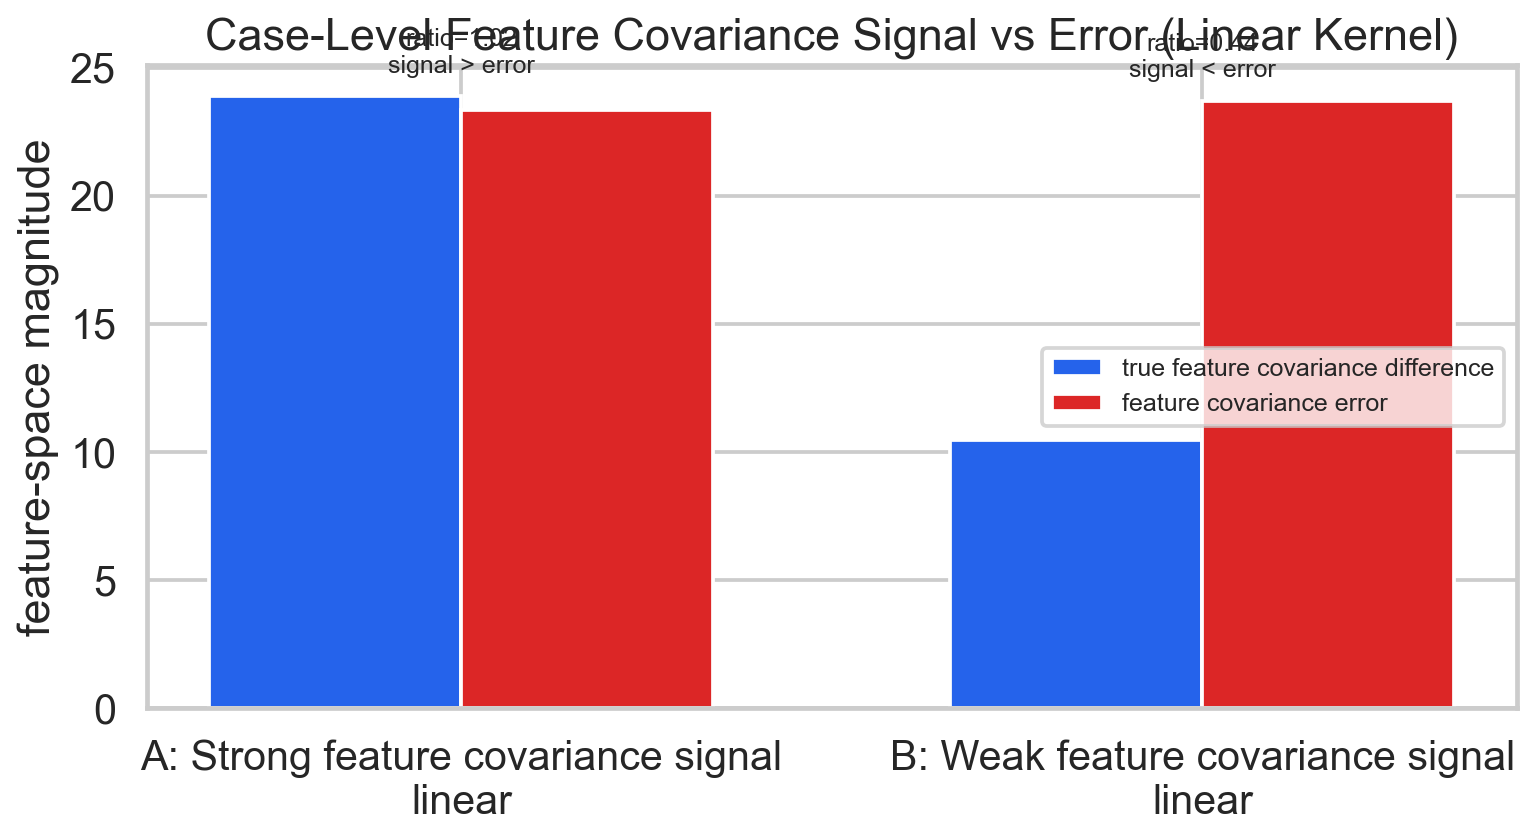
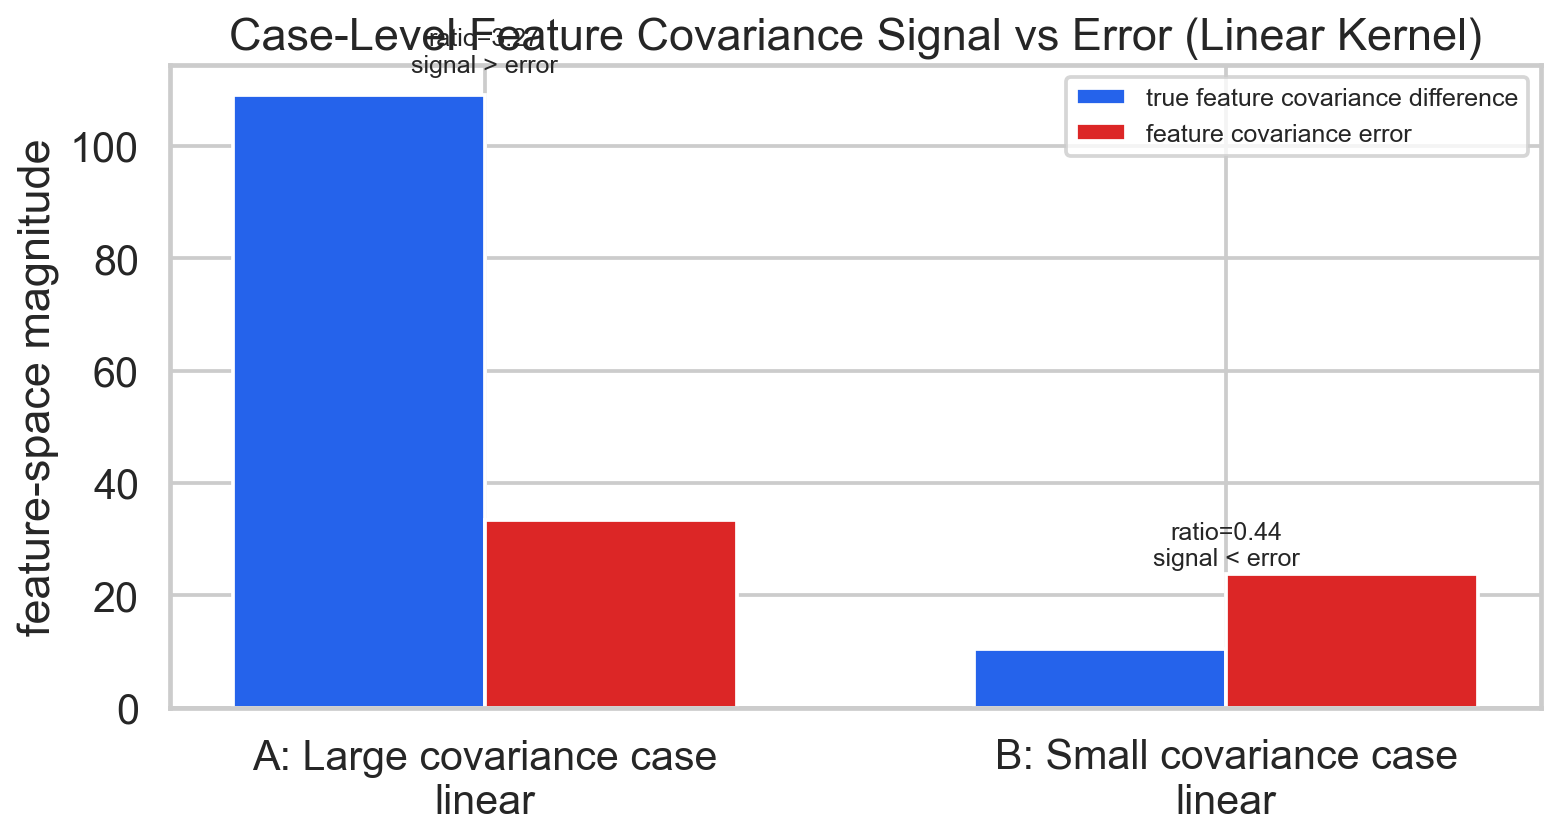
Strengthen large covariance linear example

diff --git a/simulations/kernel_space_signal_noise_workspace/kernel_space_signal_noise_demo.py b/simulations/kernel_space_signal_noise_workspace/kernel_space_signal_noise_demo.py
@@ -6,11 +6,11 @@ Feature-space signal-vs-noise demo.
 This workspace intentionally fixes the stage-1 kernel to linear and then studies
 two high-dimensional regimes:
 
-1. Strong feature-space covariance signal:
+1. Large covariance case:
    same mean / different covariance, with the true covariance difference larger
    than its estimation error.
 
-2. Weak feature-space covariance signal:
+2. Small covariance case:
    mean gap / small covariance gap, with the true covariance difference smaller
    than its estimation error.
 
@@ -52,10 +52,10 @@ def build_terminal_summary(df_strong_acc: pd.DataFrame, df_weak_acc: pd.DataFram
     strong_ratio = float(df_signal_noise[df_signal_noise["case"] == "strong_feature_covariance_signal"]["signal_to_noise_ratio"].iloc[0])
     weak_ratio = float(df_signal_noise[df_signal_noise["case"] == "weak_feature_covariance_signal"]["signal_to_noise_ratio"].iloc[0])
     return (
-        "Summary (linear stage-1 kernel only): in the strong case, the true feature covariance difference is larger than "
+        "Summary (linear stage-1 kernel only): in the large covariance case, the true feature covariance difference is larger than "
         f"its estimation error (ratio {strong_ratio:.3f}), and KDMLP improves over KFDA "
         f"({strong_best['mean']:.3f} vs {strong_kfda['mean']:.3f}). "
-        "In the weak case, the true feature covariance difference is smaller than its estimation error "
+        "In the small covariance case, the true feature covariance difference is smaller than its estimation error "
         f"(ratio {weak_ratio:.3f}), so the covariance part is below the noise floor; "
         f"the best KDMLP run reaches {weak_best['mean']:.3f} versus {weak_kfda['mean']:.3f} for KFDA, "
         "which should be read as a joint mean/covariance effect rather than as a pure covariance win."
@@ -66,10 +66,10 @@ def build_regimes(dimension: int = 220, seed: int = 20260327):
     rng = np.random.default_rng(seed)
     p = int(dimension)
 
-    sigma_strong_0 = base.random_dense_spd(rng, p, eig_low=0.6, eig_high=2.2)
+    sigma_strong_0 = base.random_dense_spd(rng, p, eig_low=0.5, eig_high=5.5)
     sigma_weak_0 = base.random_dense_spd(rng, p, eig_low=0.6, eig_high=2.1)
 
-    strong_T = base.dense_congruence_transform(rng, p, strength=0.95)
+    strong_T = base.dense_congruence_transform(rng, p, strength=4.5)
     weak_T = base.dense_congruence_transform(rng, p, strength=0.12)
 
     sigma_strong_1 = base.matched_trace_congruence(sigma_strong_0, strong_T)
@@ -78,21 +78,21 @@ def build_regimes(dimension: int = 220, seed: int = 20260327):
     v = base.random_unit_vector(rng, p)
 
     strong = base.Regime(
-        name=f"strong{p}",
-        title=f"Strong Case: d={p}, Same Mean, Different Covariances",
+        name=f"largecov{p}",
+        title=f"Large Covariance Case: d={p}, Same Mean, Different Covariances",
         p=p,
-        n_train_per_class=660,
+        n_train_per_class=1200,
         n_test_per_class=2500,
         n_ref_per_class=3000,
         mean0=np.zeros(p),
         mean1=np.zeros(p),
         Sigma0=sigma_strong_0,
         Sigma1=sigma_strong_1,
-        note="High-dimensional covariance difference with matched trace; no mean difference.",
+        note="High-dimensional large-covariance regime with matched trace; no mean difference.",
     )
     weak = base.Regime(
-        name=f"weak{p}",
-        title=f"Weak Case: d={p}, Mean Gap Plus Small Covariance Gap",
+        name=f"smallcov{p}",
+        title=f"Small Covariance Case: d={p}, Mean Gap Plus Small Covariance Gap",
         p=p,
         n_train_per_class=660,
         n_test_per_class=2500,
@@ -233,8 +233,8 @@ def collapse_by_kernel(df_cov_summary: pd.DataFrame) -> pd.DataFrame:
 def build_case_signal_summary(df_signal_noise: pd.DataFrame) -> pd.DataFrame:
     rows = []
     case_map = {
-        "strong_feature_covariance_signal": ("A", "Strong feature covariance signal"),
-        "weak_feature_covariance_signal": ("B", "Weak feature covariance signal"),
+        "strong_feature_covariance_signal": ("A", "Large covariance case"),
+        "weak_feature_covariance_signal": ("B", "Small covariance case"),
     }
     for case, (label, title) in case_map.items():
         sub = df_signal_noise[df_signal_noise["case"] == case].copy()
@@ -268,7 +268,7 @@ def plot_accuracy_curves(strong_acc: pd.DataFrame, weak_acc: pd.DataFrame):
         cur = sub[sub["variant"] == variant].sort_values("r")
         ax.plot(cur["r"], cur["mean"], marker="o", linewidth=2.2, color=colors[variant], label=base.variant_display(variant))
         ax.fill_between(cur["r"], cur["mean"] - cur["std"], cur["mean"] + cur["std"], alpha=0.18, color=colors[variant])
-    ax.set_title("Strong Case\nLinear stage-1 kernel")
+    ax.set_title("A: Large covariance case\nLinear stage-1 kernel")
     ax.set_xlabel("projection dimension r")
     ax.set_ylabel("test accuracy")
     ax.set_xticks(list(R_VALUES))
@@ -283,7 +283,7 @@ def plot_accuracy_curves(strong_acc: pd.DataFrame, weak_acc: pd.DataFrame):
         cur = sub[sub["variant"] == variant].sort_values("r")
         ax.plot(cur["r"], cur["mean"], marker="o", linewidth=2.2, color=colors[variant], label=base.variant_display(variant))
         ax.fill_between(cur["r"], cur["mean"] - cur["std"], cur["mean"] + cur["std"], alpha=0.18, color=colors[variant])
-    ax.set_title("Weak Case\nLinear stage-1 kernel")
+    ax.set_title("B: Small covariance case\nLinear stage-1 kernel")
     ax.set_xlabel("projection dimension r")
     ax.set_xticks(list(R_VALUES))
     ax.legend(frameon=True, fontsize=9)
@@ -317,8 +317,8 @@ def plot_signal_vs_noise(strong_cov: pd.DataFrame, weak_cov: pd.DataFrame):
                     tick.set_color("#7c3aed")
                     tick.set_fontweight("bold")
 
-    one_panel(axes[0], strong_cov, "Strong case (linear kernel)\ntrue covariance difference > error", highlight_kernel=LINEAR_KERNEL)
-    one_panel(axes[1], weak_cov, "Weak case (linear kernel)\ntrue covariance difference < error", highlight_kernel=LINEAR_KERNEL)
+    one_panel(axes[0], strong_cov, "A: Large covariance case (linear kernel)\ntrue covariance difference > error", highlight_kernel=LINEAR_KERNEL)
+    one_panel(axes[1], weak_cov, "B: Small covariance case (linear kernel)\ntrue covariance difference < error", highlight_kernel=LINEAR_KERNEL)
 
     fig.tight_layout()
     out = OUT_DIR / "feature_space_signal_vs_noise.png"
@@ -393,7 +393,7 @@ def plot_projection_views(strong_payload: dict, strong_acc: pd.DataFrame, weak_p
         for cls, color, label in [(0, "#1f77b4", "class 0"), (1, "#d62728", "class 1")]:
             idx = y == cls
             ax.scatter(Z2[idx, 0], Z2[idx, 1], s=10, alpha=0.55, c=color, label=label)
-        ax.set_title(f"Strong case, linear kernel\n{base.variant_display(variant)}, r={r}\nacc={acc_val:.3f}")
+        ax.set_title(f"Large covariance case, linear kernel\n{base.variant_display(variant)}, r={r}\nacc={acc_val:.3f}")
         ax.set_xlabel("2D view 1")
         ax.set_ylabel("2D view 2")
     axes[0, 0].legend(frameon=True, fontsize=9)
@@ -413,7 +413,7 @@ def plot_projection_views(strong_payload: dict, strong_acc: pd.DataFrame, weak_p
         for cls, color, label in [(0, "#1f77b4", "class 0"), (1, "#d62728", "class 1")]:
             idx = y == cls
             ax.scatter(Z2[idx, 0], Z2[idx, 1], s=10, alpha=0.55, c=color, label=label)
-        ax.set_title(f"Weak case, linear kernel\n{base.variant_display(variant)}, r={r}\nacc={acc_val:.3f}")
+        ax.set_title(f"Small covariance case, linear kernel\n{base.variant_display(variant)}, r={r}\nacc={acc_val:.3f}")
         ax.set_xlabel("2D view 1")
         ax.set_ylabel("2D view 2")
 

diff --git a/simulations/kernel_space_signal_noise_workspace/README.md b/simulations/kernel_space_signal_noise_workspace/README.md
@@ -2,8 +2,8 @@
 
 This folder isolates two different covariance-signal situations using one fixed linear stage-1 kernel. The default run is at dimension `220`, and a higher-dimensional supplementary run is provided at `d=500` with `repeats=3`.
 
-- a strong feature-space covariance-signal case where KDMLP can beat KFDA
-- a weak feature-space covariance-signal case where covariance estimation noise is larger than the true gap
+- a large covariance case where KDMLP can beat KFDA
+- a small covariance case where covariance estimation noise is larger than the true gap
 
 ## Main script
 
@@ -33,11 +33,11 @@ python kernel_space_signal_noise_demo.py --dimension 500 --repeats 3 --output-su
 - `outputs/projection_views.png`
 - `outputs_d500_r3/`
 
-The figures below use the default `d=220` run in `outputs/`, and they now show only the linear stage-1 kernel. This gives one direct comparison where the strong case has true linear feature covariance signal above estimation error and the weak case has signal below error. The `d=500` run remains available in `outputs_d500_r3/` as a supplementary check.
+The figures below use the default `d=220` run in `outputs/`, and they now show only the linear stage-1 kernel. This gives one direct comparison where the large covariance case has true linear feature covariance signal far above estimation error and the small covariance case has signal below error. The `d=500` run remains available in `outputs_d500_r3/` as a supplementary check.
 
 | Label | Stage-1 kernel | True feature covariance difference | Feature covariance error | Relation |
 | --- | --- | ---: | ---: | --- |
-| A | linear | 23.8899 | 23.3499 | signal > error |
+| A | linear | 109.0150 | 33.3802 | signal > error |
 | B | linear | 10.4546 | 23.7135 | signal < error |
 
 ![Case-level feature covariance signal vs error](outputs/signal_noise_case_summary.png)
@@ -49,11 +49,11 @@ The figures below use the default `d=220` run in `outputs/`, and they now show o
 ## Interpretation
 
 - The displayed default figures are built at `d=220`; a supplementary `d=500`, `repeats=3` run is also provided in `outputs_d500_r3/`.
-- The strong case is a high-dimensional same-mean / different-covariance regime.
-- The weak case is a high-dimensional mean-gap / small-covariance-gap regime.
+- The large covariance case is a high-dimensional same-mean / different-covariance regime.
+- The small covariance case is a high-dimensional mean-gap / small-covariance-gap regime.
 - The comparison is driven by the linear feature-space diagnostics:
   `ref_D_sigma_feature` versus `cov_gap_error_feature`.
-- In the strong case, the linear feature-space covariance difference is slightly larger than its estimation error (`23.8899` vs `23.3499`, ratio `1.023`), and KDMLP improves over KFDA (`0.575` vs `0.513`).
-- In the weak case, the linear covariance part stays below the noise floor (`10.4546` vs `23.7135`, ratio `0.441`); the final accuracy can still be influenced by the mean-separation part of the method (`0.683` vs `0.648` for KFDA).
+- In the large covariance case, the linear feature-space covariance difference is much larger than its estimation error (`109.0150` vs `33.3802`, ratio `3.266`), and KDMLP improves over KFDA (`0.898` vs `0.781`).
+- In the small covariance case, the linear covariance part stays below the noise floor (`10.4546` vs `23.7135`, ratio `0.441`); the final accuracy can still be influenced by the mean-separation part of the method (`0.683` vs `0.648` for KFDA).
 - The companion Gaussian sweep in `simulations/redo_projection_workspace` now enforces `r <= p` for every stage-1 kernel and uses a moderate default `p=120`. In that sweep, the weak-gap regime reaches its best KDMLP accuracy at very small `r` (`0.624` at `r=2`, versus `0.518` for `KFDA-1D`), which is consistent with a setting where the mean-separation component matters more than large covariance-sensitive expansions.
-- The higher-dimensional supplementary run is included in `outputs_d500_r3`, where `d=500` and `repeats=3`. In that run, the strong case still favors KDMLP (`0.579` vs `0.529` for KFDA), while the weak case still has feature-space signal below covariance error and is helped by the mean-separation component of `KDMLP large`.
+- The higher-dimensional supplementary run is included in `outputs_d500_r3`, where `d=500` and `repeats=3`. In that run, the large covariance case still favors KDMLP (`0.579` vs `0.529` for KFDA), while the small covariance case still has feature-space signal below covariance error and is helped by the mean-separation component of `KDMLP large`.

diff --git a/README.md b/README.md
@@ -66,14 +66,14 @@ This workspace is a diagnostic companion to the Gaussian experiments, but the pr
 
 | Label | Case | Linear feature signal / error | KFDA-1D | Best KDMLP |
 | --- | ---: | ---: | ---: |
-| A | Strong feature covariance signal (`d=220`) | 1.023 | 0.513 | 0.575 |
-| B | Weak feature covariance signal (`d=220`) | 0.441 | 0.648 | 0.683 |
+| A | Large covariance case (`d=220`) | 3.266 | 0.781 | 0.898 |
+| B | Small covariance case (`d=220`) | 0.441 | 0.648 | 0.683 |
 
-The plots below now show only the linear stage-1 kernel at the default `d=220`, because it gives the cleanest direct comparison between true covariance signal and covariance-estimation error. In Case A, the linear feature-space covariance difference is slightly larger than the error (`23.890` vs `23.350`, ratio `1.023`), and KDMLP improves over KFDA (`0.575` vs `0.513`). In Case B, the linear feature-space covariance difference is smaller than the error (`10.455` vs `23.714`, ratio `0.441`), so the covariance part is below the noise floor; there the best KDMLP result (`0.683` vs `0.648` for KFDA) should be read as a joint mean/covariance effect rather than as a pure covariance win. The higher-dimensional `d=500` run is still kept in the workspace as a supplementary check.
+The plots below now show only the linear stage-1 kernel at the default `d=220`, because it gives the cleanest direct comparison between true covariance signal and covariance-estimation error. In Case A, the large covariance case has a linear feature-space covariance difference that is far larger than the error (`109.015` vs `33.380`, ratio `3.266`), and KDMLP improves clearly over KFDA (`0.898` vs `0.781`). In Case B, the linear feature-space covariance difference is smaller than the error (`10.455` vs `23.714`, ratio `0.441`), so the covariance part is below the noise floor; there the best KDMLP result (`0.683` vs `0.648` for KFDA) should be read as a joint mean/covariance effect rather than as a pure covariance win. The higher-dimensional `d=500` run is still kept in the workspace as a supplementary check.
 
 | Label | Stage-1 kernel | True feature covariance difference | Feature covariance error | Relation |
 | --- | --- | ---: | ---: | --- |
-| A | linear | 23.8899 | 23.3499 | signal > error |
+| A | linear | 109.0150 | 33.3802 | signal > error |
 | B | linear | 10.4546 | 23.7135 | signal < error |
 
 This case-level table makes the intended separation explicit in one fixed linear setting: in Case A, the true feature-space covariance difference is larger than the estimation error, whereas in Case B it is smaller.
